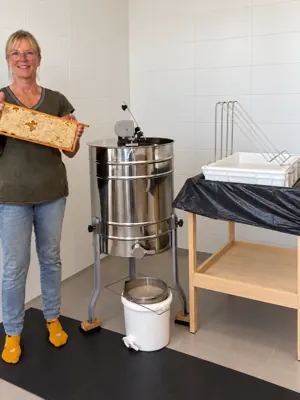
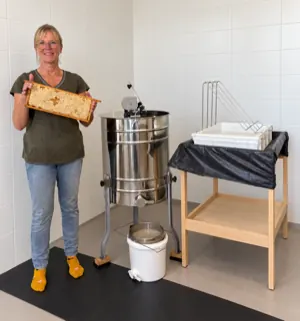
Betere uitsnede voor de imkersfoto's
Jaap en Nel staan allebei links in hun foto, maar ik sneed vanuit het
midden bij. Daardoor viel bij allebei een arm en een stuk van de raat
buiten beeld.

Beide foto's worden nu op hun eigen verhouding geleverd en het kader
snijdt bij via object-position: 12%. De uitsnede is daarmee een
instelling in plaats van een onomkeerbare export, dus bijstellen kan
zonder de bestanden opnieuw te genereren.

Gemeten: LCP 2.10 s, CLS 0, toegankelijkheid 100.

diff --git a/qr.html b/qr.html
@@ -143,6 +143,10 @@
 
   .frame--lift { box-shadow: 0 30px 54px -34px rgba(55, 25, 25, .6); }
 
+  /* beide imkers staan links in hun foto; vanaf het midden bijsnijden
+     zou hun arm en de raat afkappen */
+  .frame--links > picture > img { object-position: 12% center; }
+
   /* staande video krijgt een smaller kader, anders domineert hij de pagina */
   .smal { max-width: 480px; margin-inline: auto; width: 100%; }
 
@@ -280,7 +284,7 @@
     <!-- 7 + 8 — de imkers, 3:4 paar -->
     <div class="row--pair">
       <figure>
-        <div class="frame r-3-4">
+        <div class="frame r-3-4 frame--links">
         <picture>
           <source type="image/webp" srcset="assets/qr/slingeren-300.webp 300w, assets/qr/slingeren-480.webp 480w, assets/qr/slingeren-700.webp 700w" sizes="(max-width: 560px) calc(100vw - 40px), 410px">
           <img src="assets/qr/slingeren-700.jpg" srcset="assets/qr/slingeren-300.jpg 300w, assets/qr/slingeren-480.jpg 480w, assets/qr/slingeren-700.jpg 700w" sizes="(max-width: 560px) calc(100vw - 40px), 410px"
@@ -290,7 +294,7 @@
         <figcaption>Jaap Keijmel</figcaption>
       </figure>
       <figure>
-        <div class="frame r-3-4">
+        <div class="frame r-3-4 frame--links">
         <picture>
           <source type="image/webp" srcset="assets/qr/nel-300.webp 300w, assets/qr/nel-480.webp 480w, assets/qr/nel-700.webp 700w" sizes="(max-width: 560px) calc(100vw - 40px), 410px">
           <img src="assets/qr/nel-700.jpg" srcset="assets/qr/nel-300.jpg 300w, assets/qr/nel-480.jpg 480w, assets/qr/nel-700.jpg 700w" sizes="(max-width: 560px) calc(100vw - 40px), 410px"
